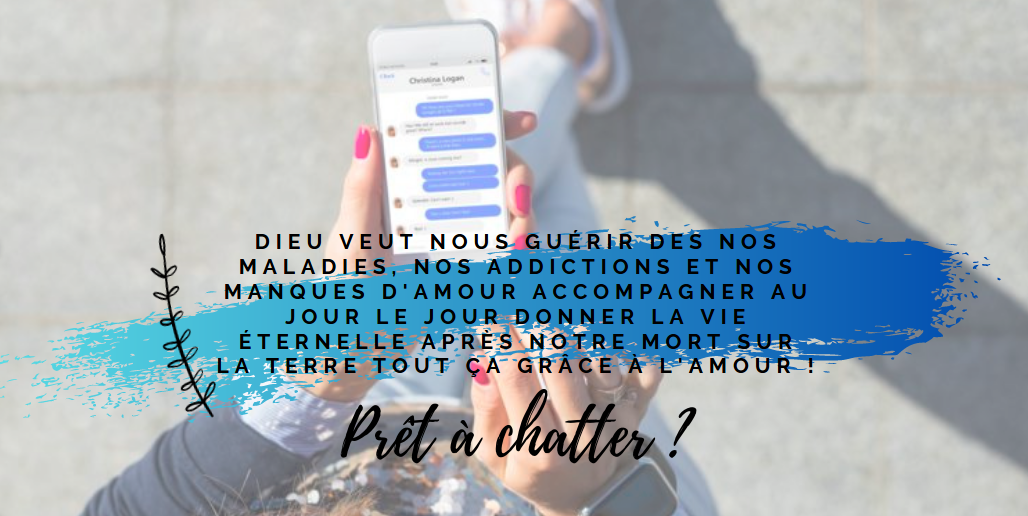
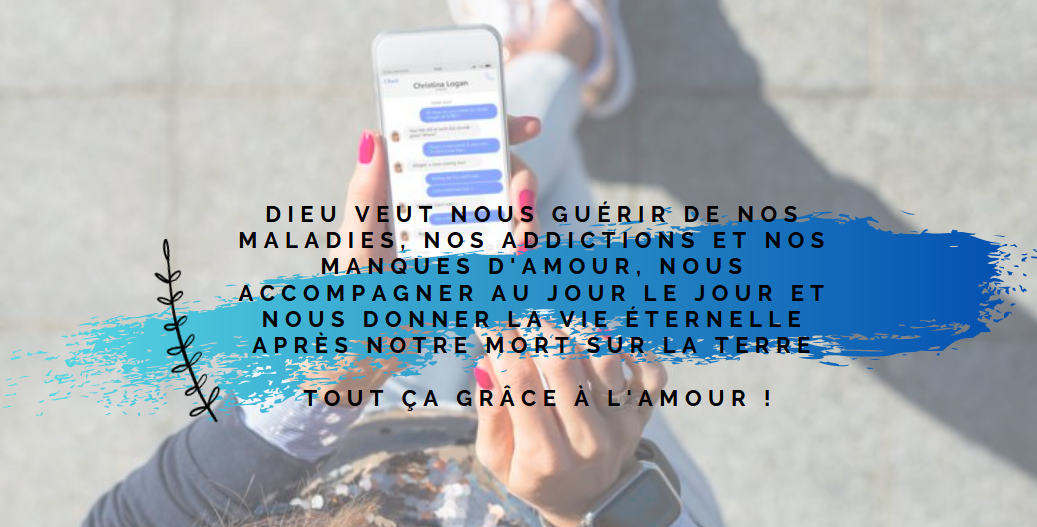
Change the background images

diff --git a/holychatter/style/hc-23.css b/holychatter/style/hc-23.css
@@ -647,6 +647,11 @@ h1 {
   width: auto;
 }
 
+.hc-default-content-width {
+  width: 80%;
+  margin-left: 10%;
+}
+
 
 .hc-whole-page
 {
@@ -664,13 +669,6 @@ h1 {
     z-index: -3;
 }
 
-.hc-shine-background
-{
-  background-image: url('/resources/holychatter/images/background.png');
-  background-repeat: no-repeat;
-  background-size: cover;
-}
-
 .hc-heart-background
 {
   background-image: url('/resources/holychatter/images/heart.png');
@@ -678,12 +676,21 @@ h1 {
   background-size: cover;
 }
 
-.hc-wood-background
+.hc-banner-background
 {
-  background-image: url('/resources/holychatter/images/wood.png');
+  background-image: url('/resources/holychatter/images/banner_background.png');
   background-repeat: no-repeat;
   background-size: cover;
 }
+
+.hc-banner-main
+{
+  background-image: url('/resources/holychatter/images/banner_main.png');
+  background-repeat: no-repeat;
+  background-size: cover;
+  background-position: center;
+}
+
 
 .hc-white-background
 {
